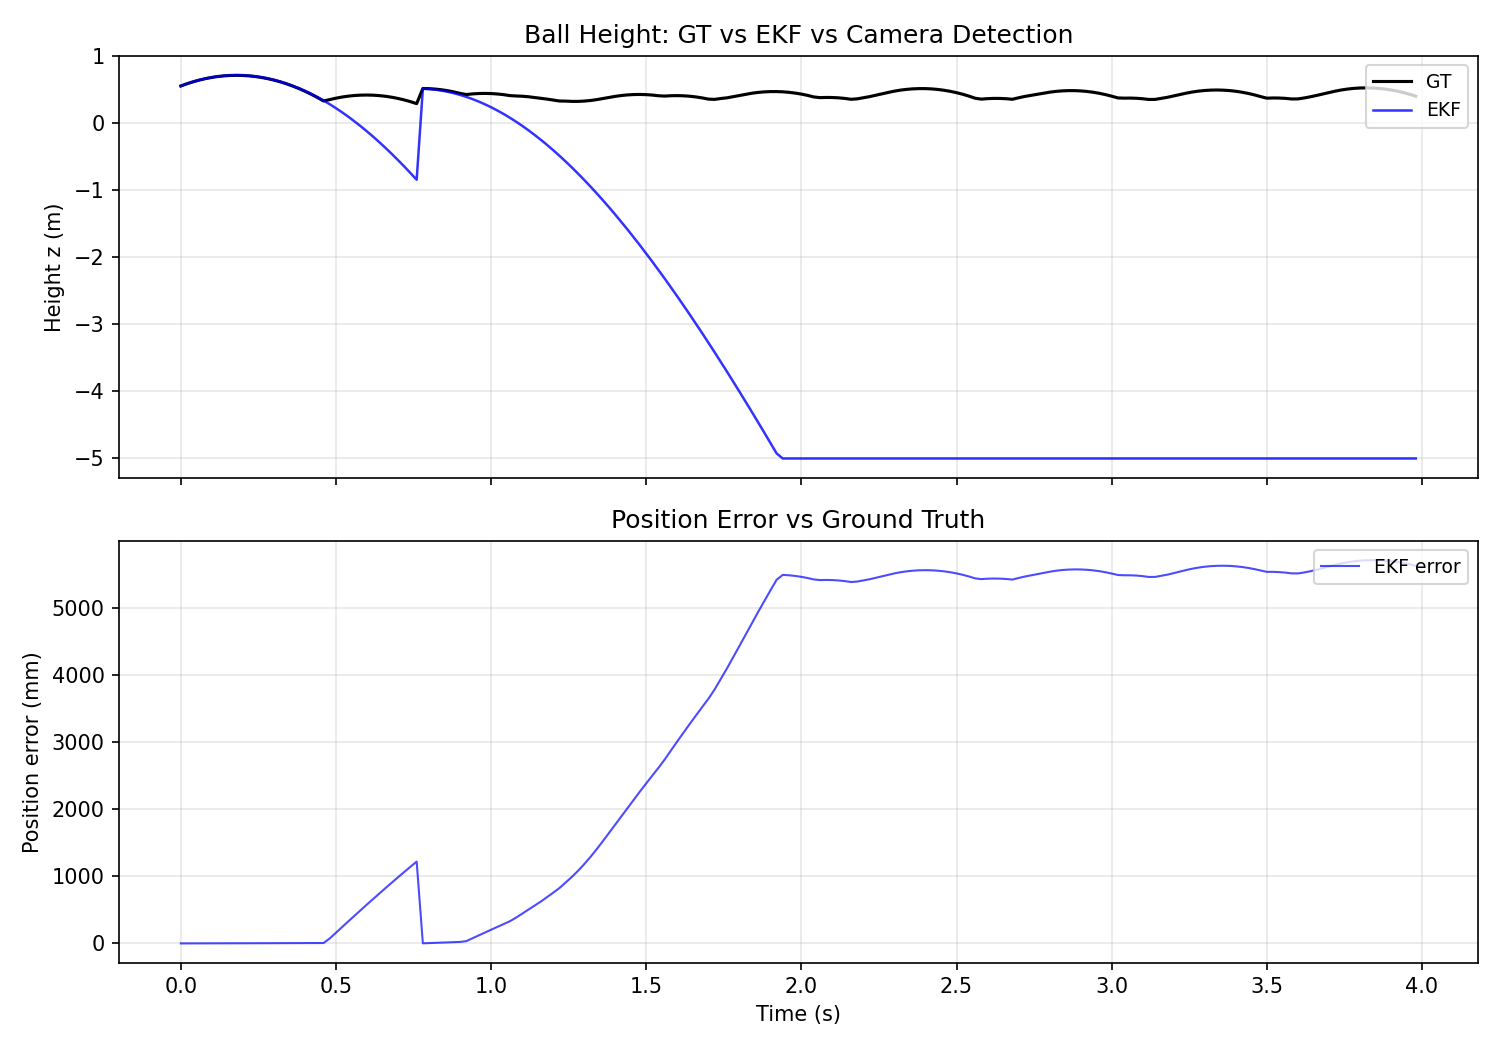
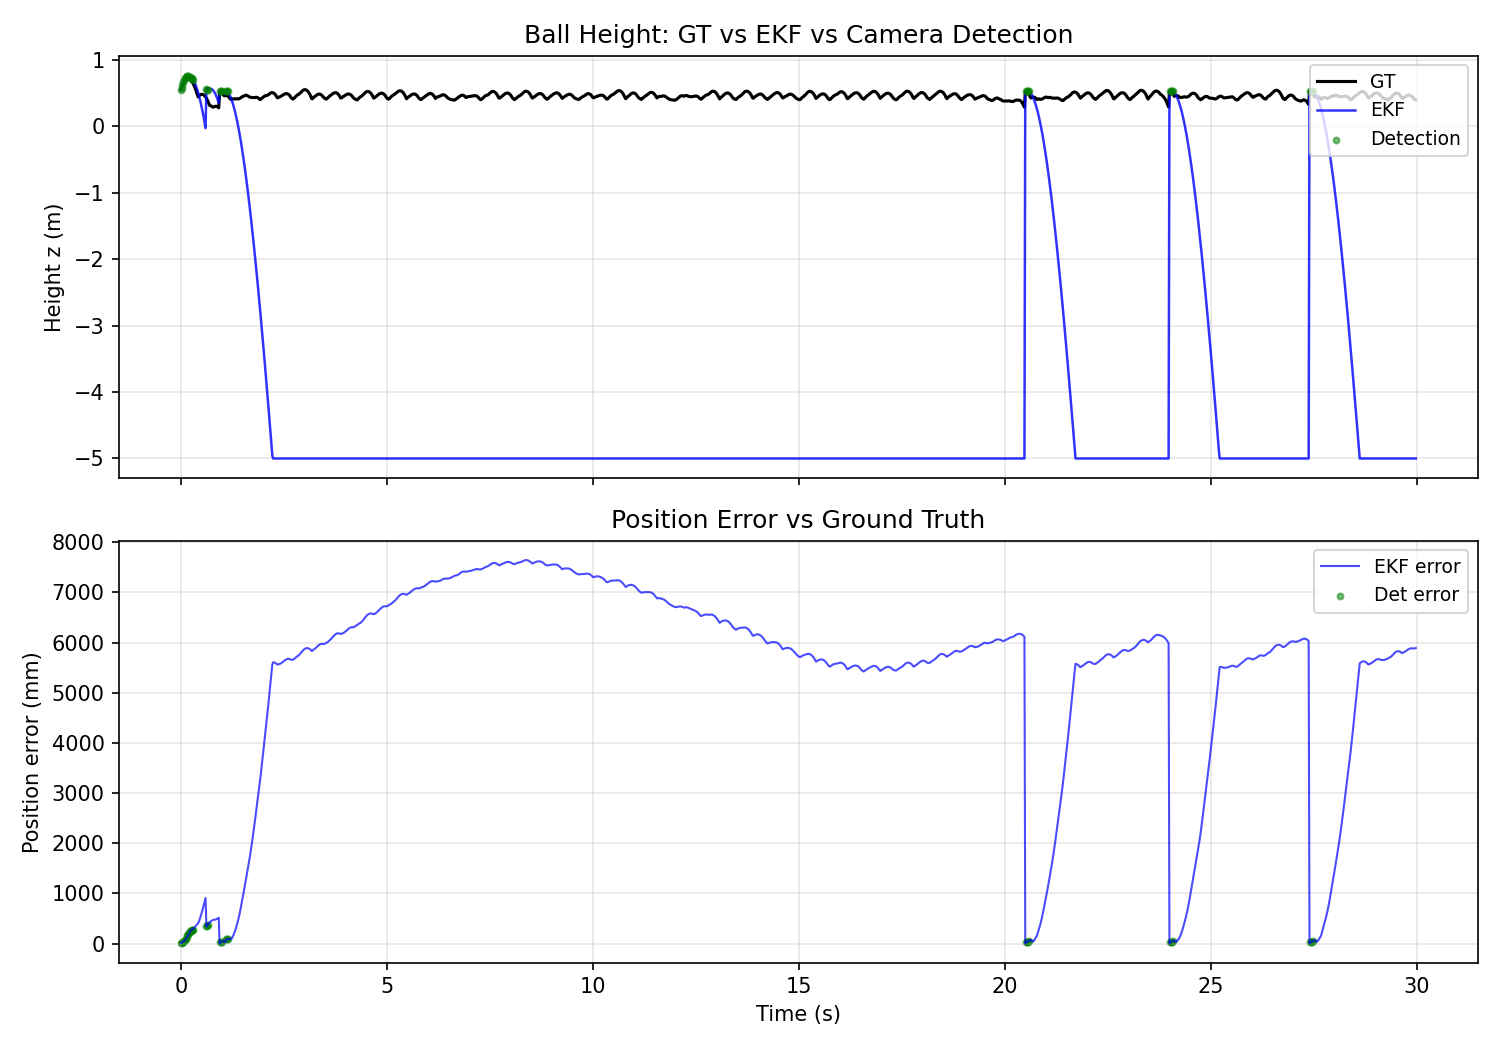
Iteration 102: height sweep — policy balances, doesn't juggle

diff --git a/.c3r/RESEARCH_LOG.md b/.c3r/RESEARCH_LOG.md
@@ -88,3 +88,27 @@ Result:     FUNDAMENTAL VISIBILITY GAP: oracle 1.7% det rate, d435i 4.5% det rat
 Decision:   Next iter: re-run eval at higher target heights (0.50-1.00m) where ball spends
             more time in flight. If policy can sustain higher targets, detection rate should
             improve dramatically. Also consider asking Daniel about camera mount alternatives.
+
+## Iteration 102 — Height sweep: policy balances, doesn't juggle  (2026-04-10T11:45:00Z)
+Hypothesis: Higher target heights (0.50-1.00m) should give the ball more airtime and
+            dramatically improve camera detection rate (from 1.7-4.5% at 0.42m).
+Change:     Created run_height_sweep_eval.sh to sweep targets {0.42, 0.50, 0.70, 1.00}m
+            with d435i policy, 1500 steps × 4 envs each. Detailed per-step height analysis
+            and height-above-paddle histograms.
+Command:    $C3R_BIN/gpu_lock.sh bash scripts/perception/run_height_sweep_eval.sh
+            Smoke test: 10 steps at 0.70m — passed. Full sweep: 4 targets × 1500 steps.
+Result:     TARGET-INVARIANT: policy caps at 0.246m max apex above paddle regardless of
+            target setting. Mean ball height above paddle = 0.01m (essentially resting).
+            | Target | Det% | FOV% | Det|FOV% | Mean h | Max h |
+            | 0.42m  | 3.9  | 16.2 | 11.1    | 0.011  | 0.246 |
+            | 0.50m  | 1.1  | 12.3 |  9.2    | 0.004  | 0.246 |
+            | 0.70m  | 1.7  | 16.9 |  6.3    | 0.010  | 0.246 |
+            | 1.00m  | 2.5  |  4.1 | 26.2    | -0.009 | 0.246 |
+            ROOT CAUSE: d435i Stage F policy catches ball on initial drop (17-step
+            flight with 100% detection), then holds it on paddle forever. Zero sustained
+            bouncing. Camera+detector pipeline works perfectly — problem is pure policy.
+            Pinged policy agent about Stage G training.
+Decision:   BLOCKED on policy improvement. Next iter: (a) investigate EKF predict-only mode
+            for sparse measurements during contact phases, (b) consider if camera can also
+            see ball during paddle contact from a different mount angle, (c) wait for
+            policy agent's Stage G progress.

diff --git a/.c3r/fix_plan.md b/.c3r/fix_plan.md
@@ -27,10 +27,12 @@
   - [x] Experiment write-up: experiments/perception/2026-04-10_oracle_vs_d435i_eval.qmd
   - [x] Fixed SameFileError in analyze_eval_trajectory.py --quarto-copy
 
-# Next: Higher target height eval
-- [ ] Re-run eval at target=0.70m or 1.00m to test if higher apex gives >50% det rate
-- [ ] If policy can't sustain 1.0m, try intermediate targets (0.50, 0.60, 0.70)
-- [ ] Consider alternative camera mount angles if detection still insufficient
+# Next: Higher target height eval — DONE (iter 102)
+- [x] Re-run eval at target=0.42/0.50/0.70/1.00m — policy caps at 0.25m apex regardless
+- [x] ROOT CAUSE: policy is balancing (Stage F), not juggling. Camera works fine during flight.
+- [ ] BLOCKED: need policy agent to produce a sustained-bouncing policy (Stage G+)
+- [ ] Meanwhile: adapt EKF for sparse-measurement regime (predict-only during contact)
+- [ ] Consider "flight window" detection mode — only run detection during known flight arcs
 
 # EKF tuning (lower priority, mostly done)
 - [x] GPU sweep at higher target heights (0.3-0.5m) — bounce mode sweep done (iter 90)
